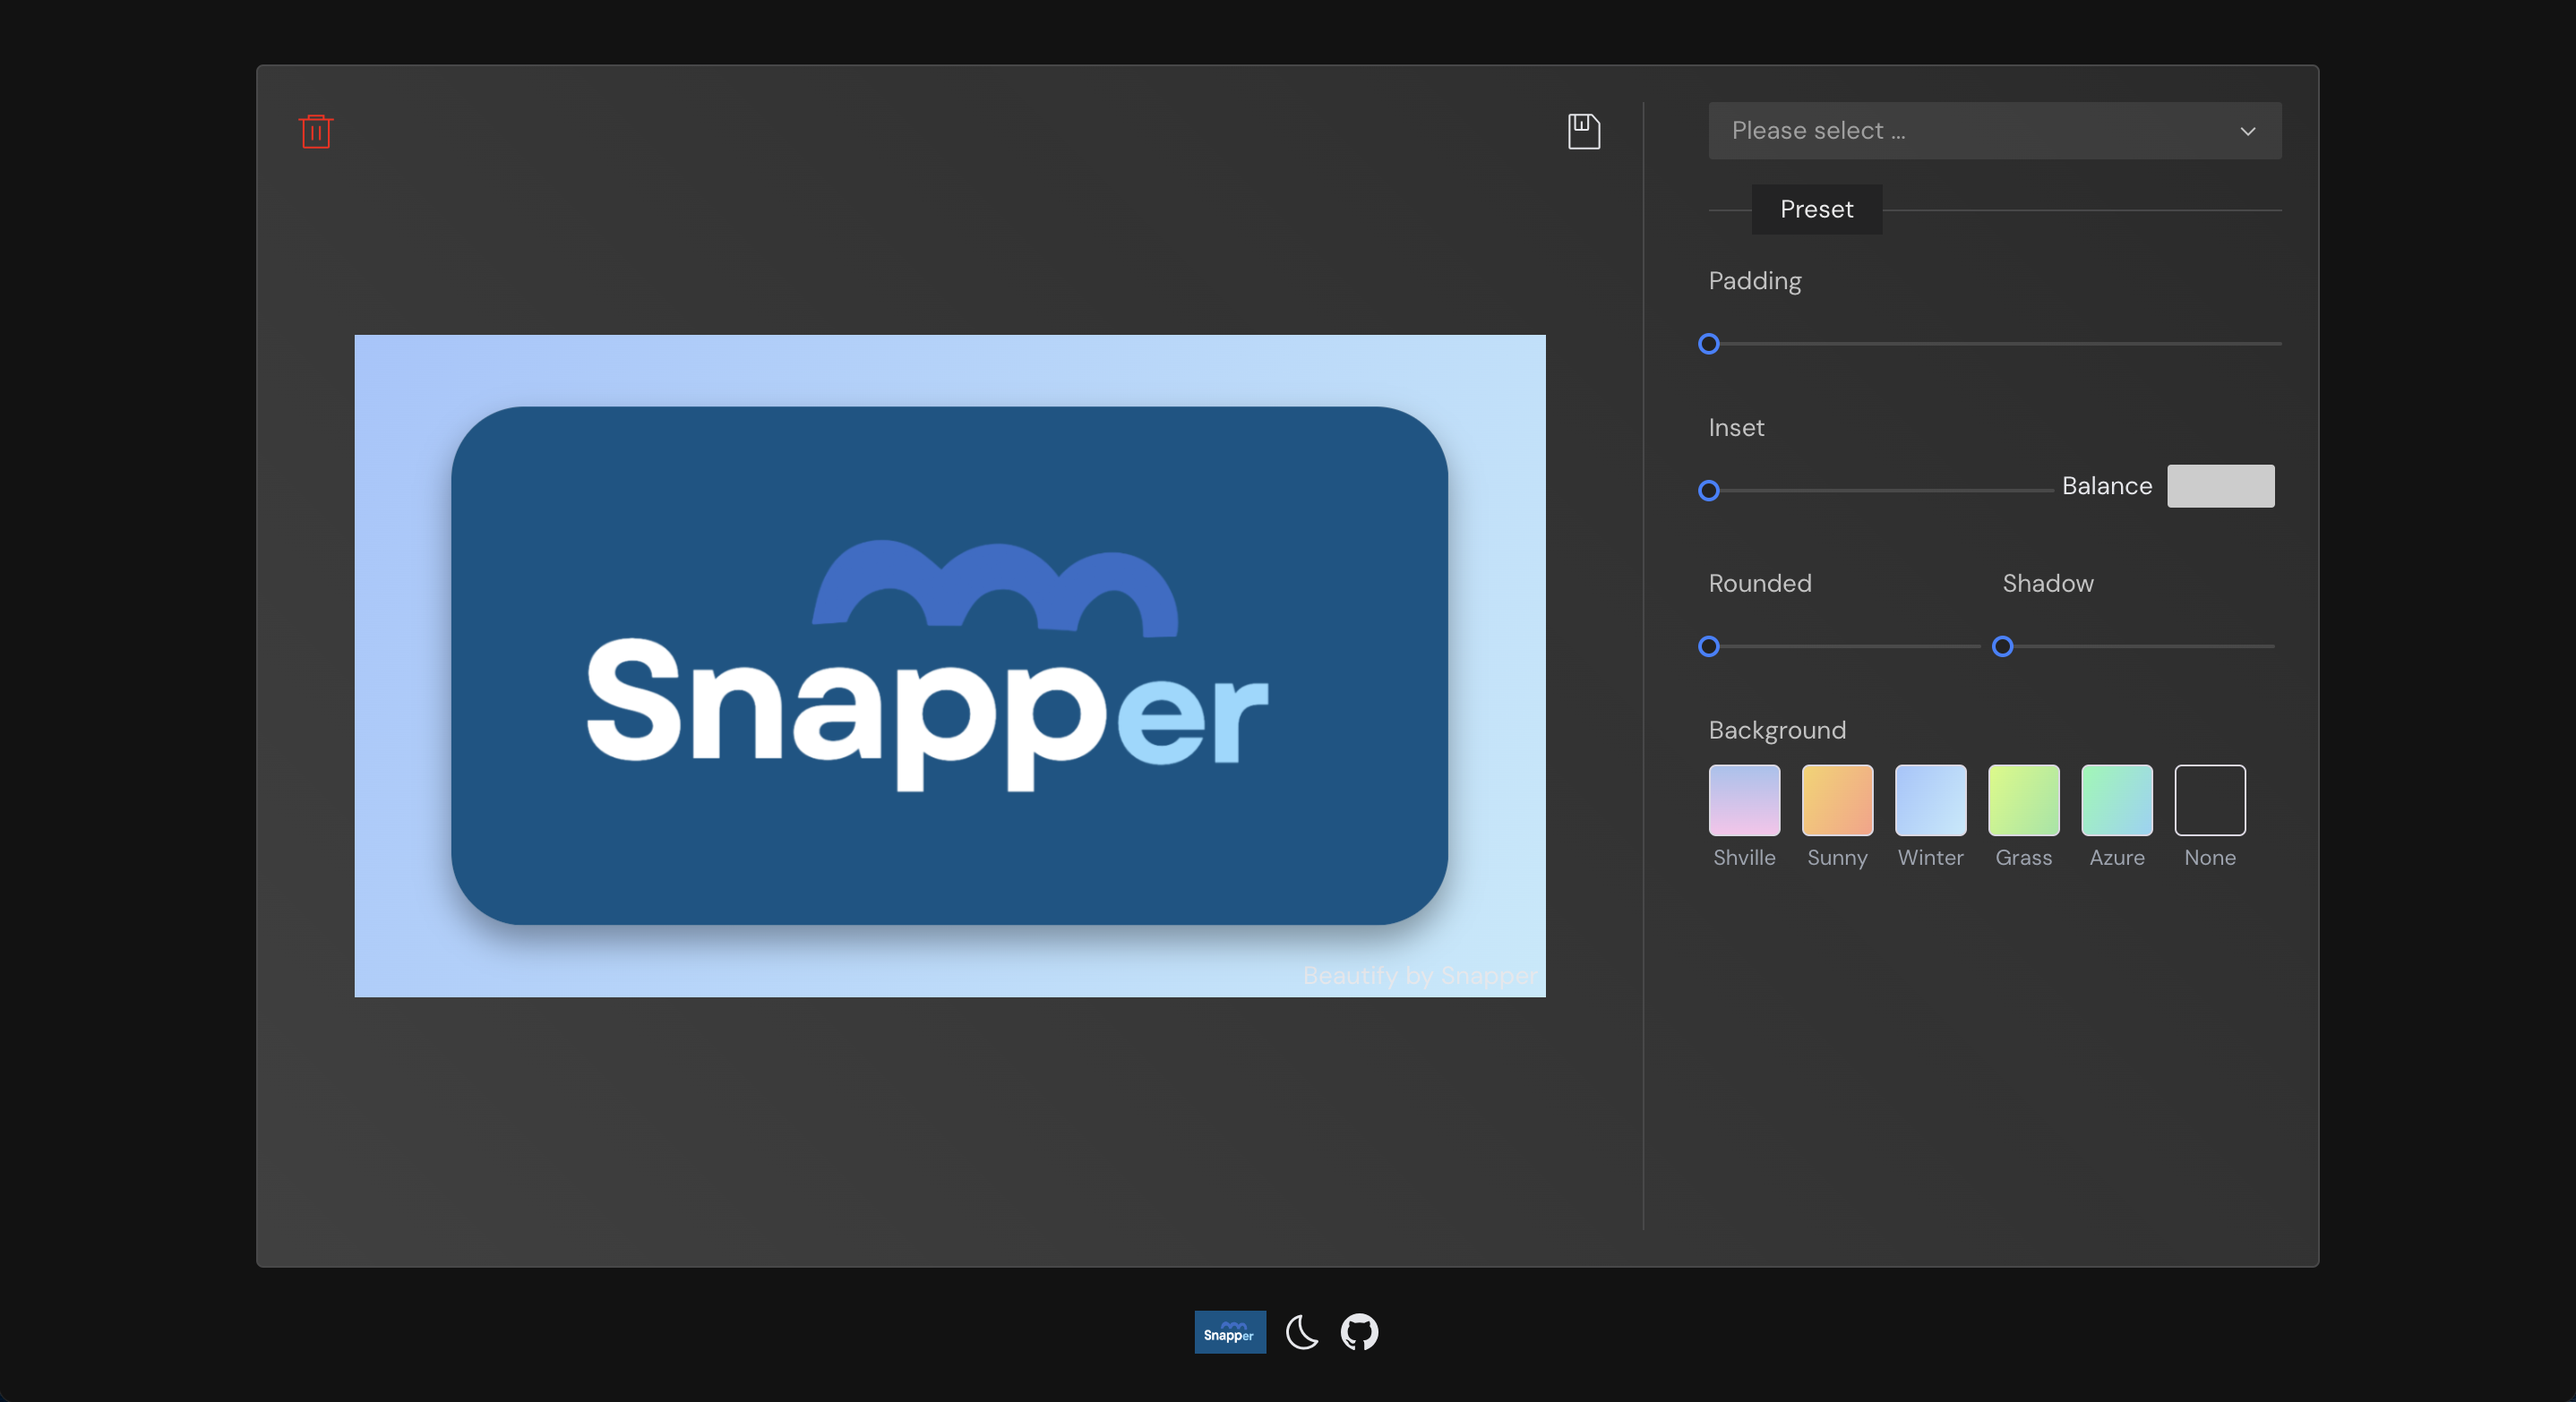
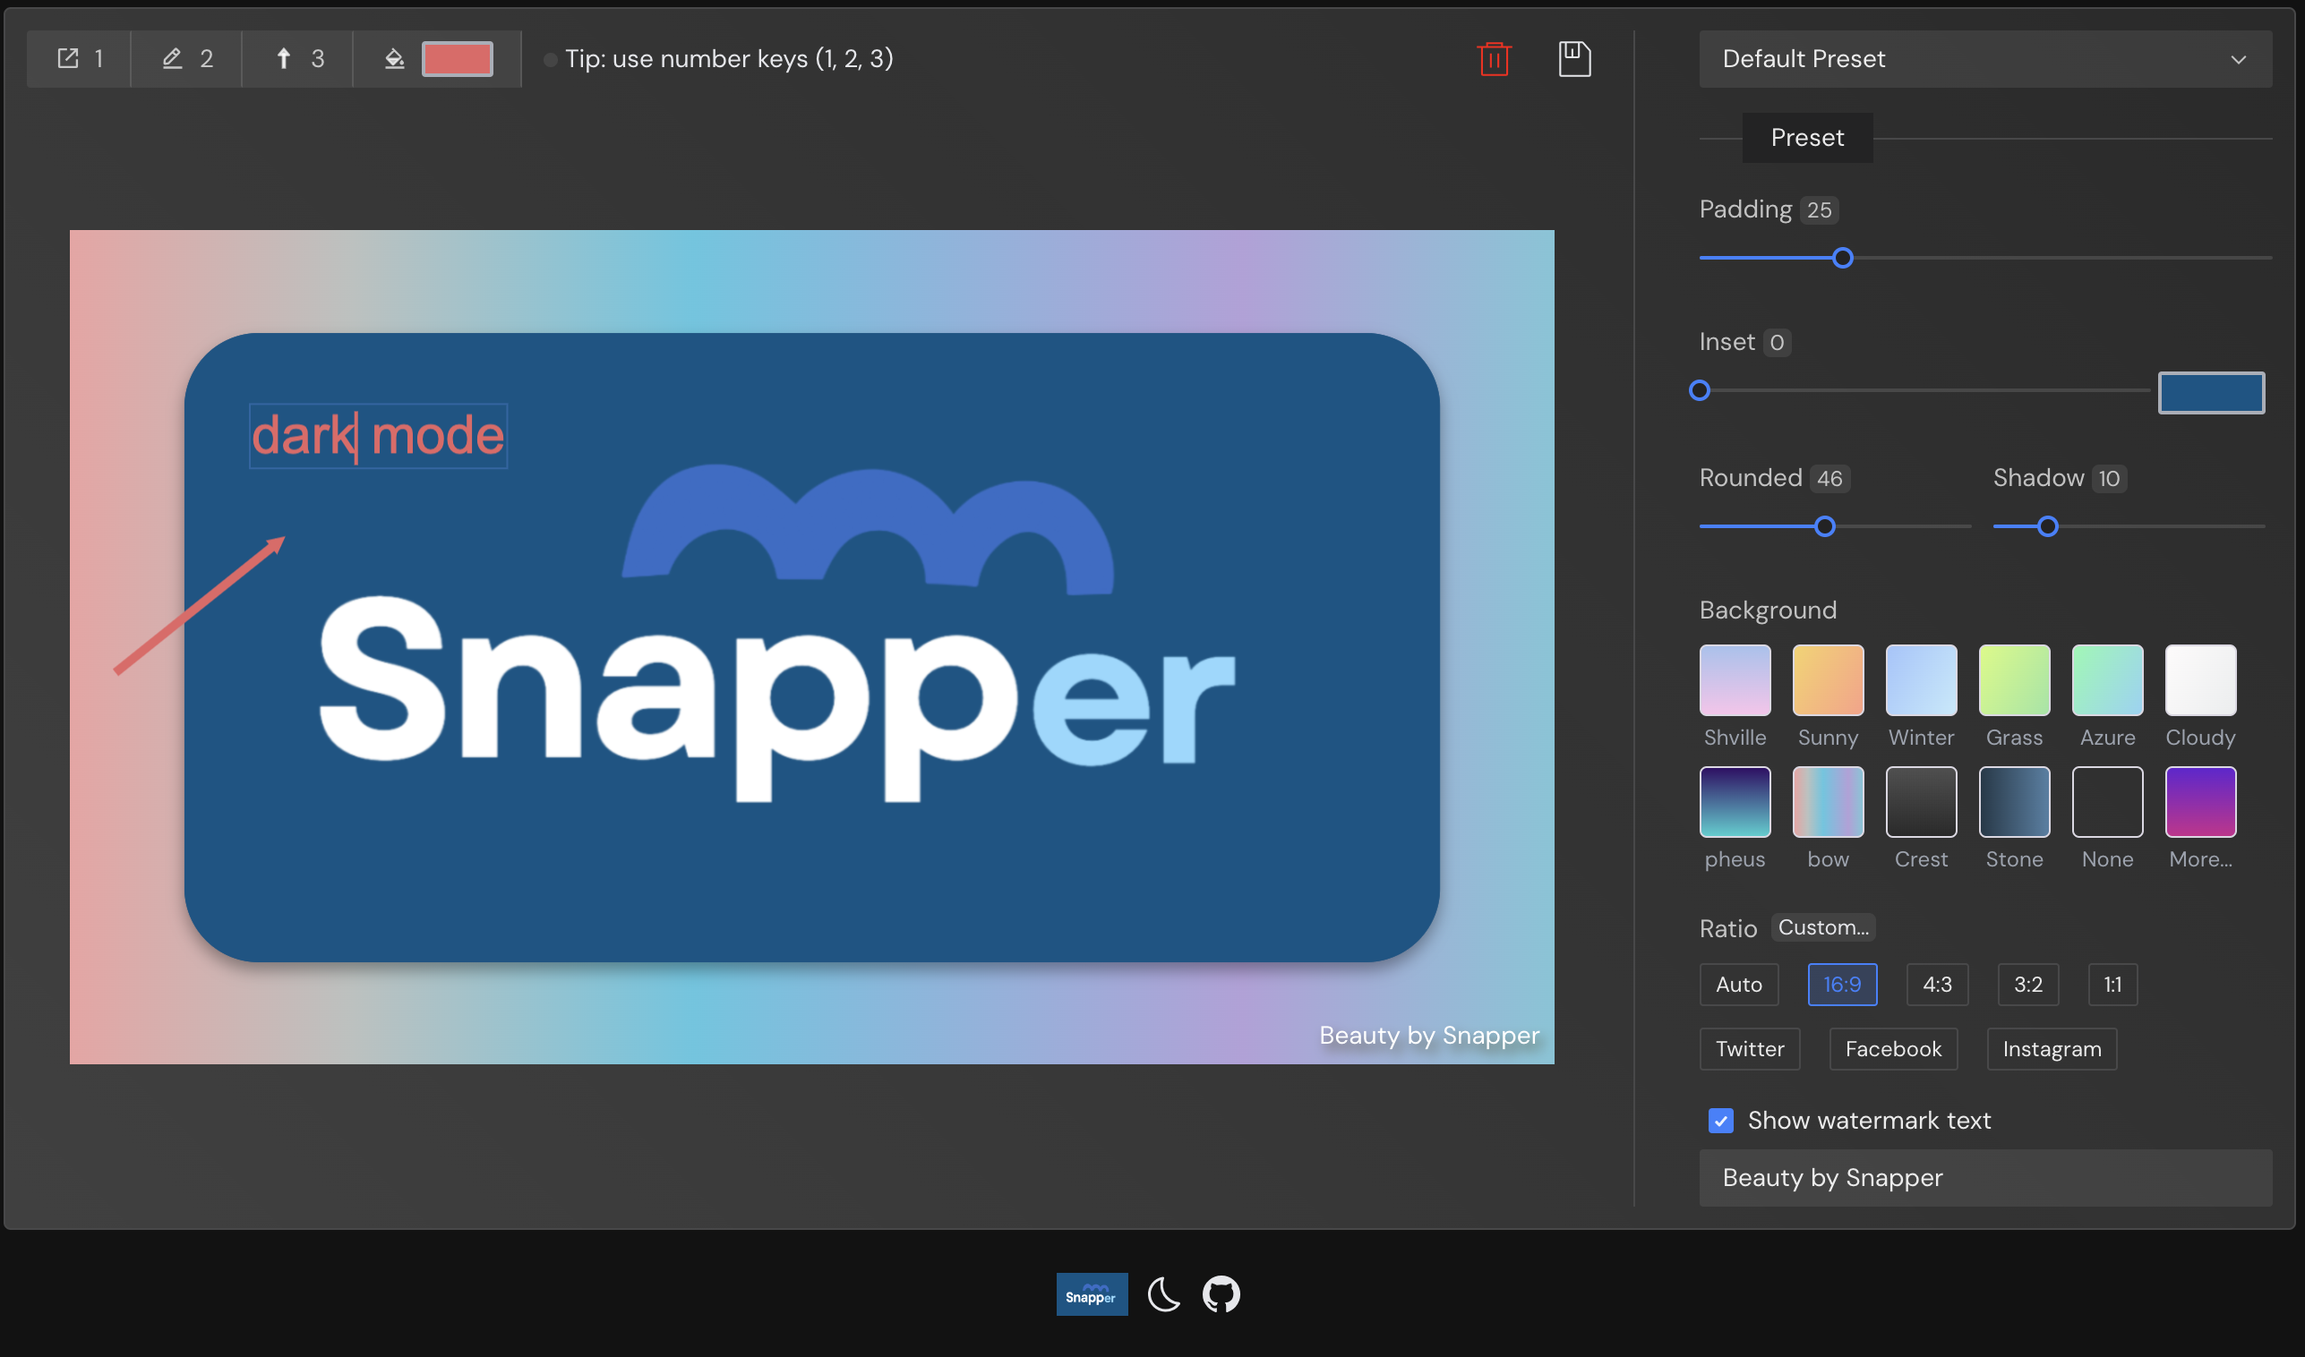
doc: readme

diff --git a/README.md b/README.md
@@ -1,11 +1,4 @@
 <div style="width: 100%;text-align: center;margin-top: 20px">
-   <img
-      title="Snapper logo"
-      alt="Snapper logo"
-      src="./src/assets/logo.png"
-      align="center"
-      style="width: 20rem"
-   />
    <h1 align="center">Snapper 截图美化工具</h1>
 </div>
 
@@ -18,10 +11,6 @@
 
 ## Features
 
-### 作为一个网页工具
-
-#### 所见即Snapper编辑器
-
 导入:
 
 1.  按下Ctrl/Command + V可直接将剪切板内的图片粘入编辑器 ✅
@@ -31,26 +20,39 @@
 导出:
 
 1.  右上角的export按钮点击自动导出 ✅
-2.  拖拽编辑器内的图片至任意区域放手可自动导出 ✅
+2.  快捷键ctrl/command + c导出✅
 
-#### 功能栏
+#### 功能区域
+
+左侧为图片区域 按以上导入方式至编辑器内即可进行编辑
+
+1. 顶部左侧为画布工具栏
+   1. 框选编辑模式 （hotkey 数字1）
+   2. 文字录入（hotkey 数字2）
+   3. 矩形箭头 （hotkey 数字3）
+   4. 工具颜色
 
 右侧栏目为操作栏可对图片进行美化编辑
 
 1. Preset 预设
 
    1. default
-   2. diy
+   2. 用户可新增自己的预设模版
 
 2. Beautify 美化区
 
    1. Padding
-   2. Inset Balance
+   2. Inset
    3. Rounded Shadow
+   4. Background （More选项中也可以上传图片作为背景）
+   5. Ratio 调整图片的尺寸比例
+   6. Watermark 水印自定义
 
-### 添加水印
+### 加入切换语言 中文/英文
 
 ### 作为浏览器插件(暂未实现)
+
+#### 想法
 
 1. 截取任意网页的任意区域
 2. 支持拖动和缩放
